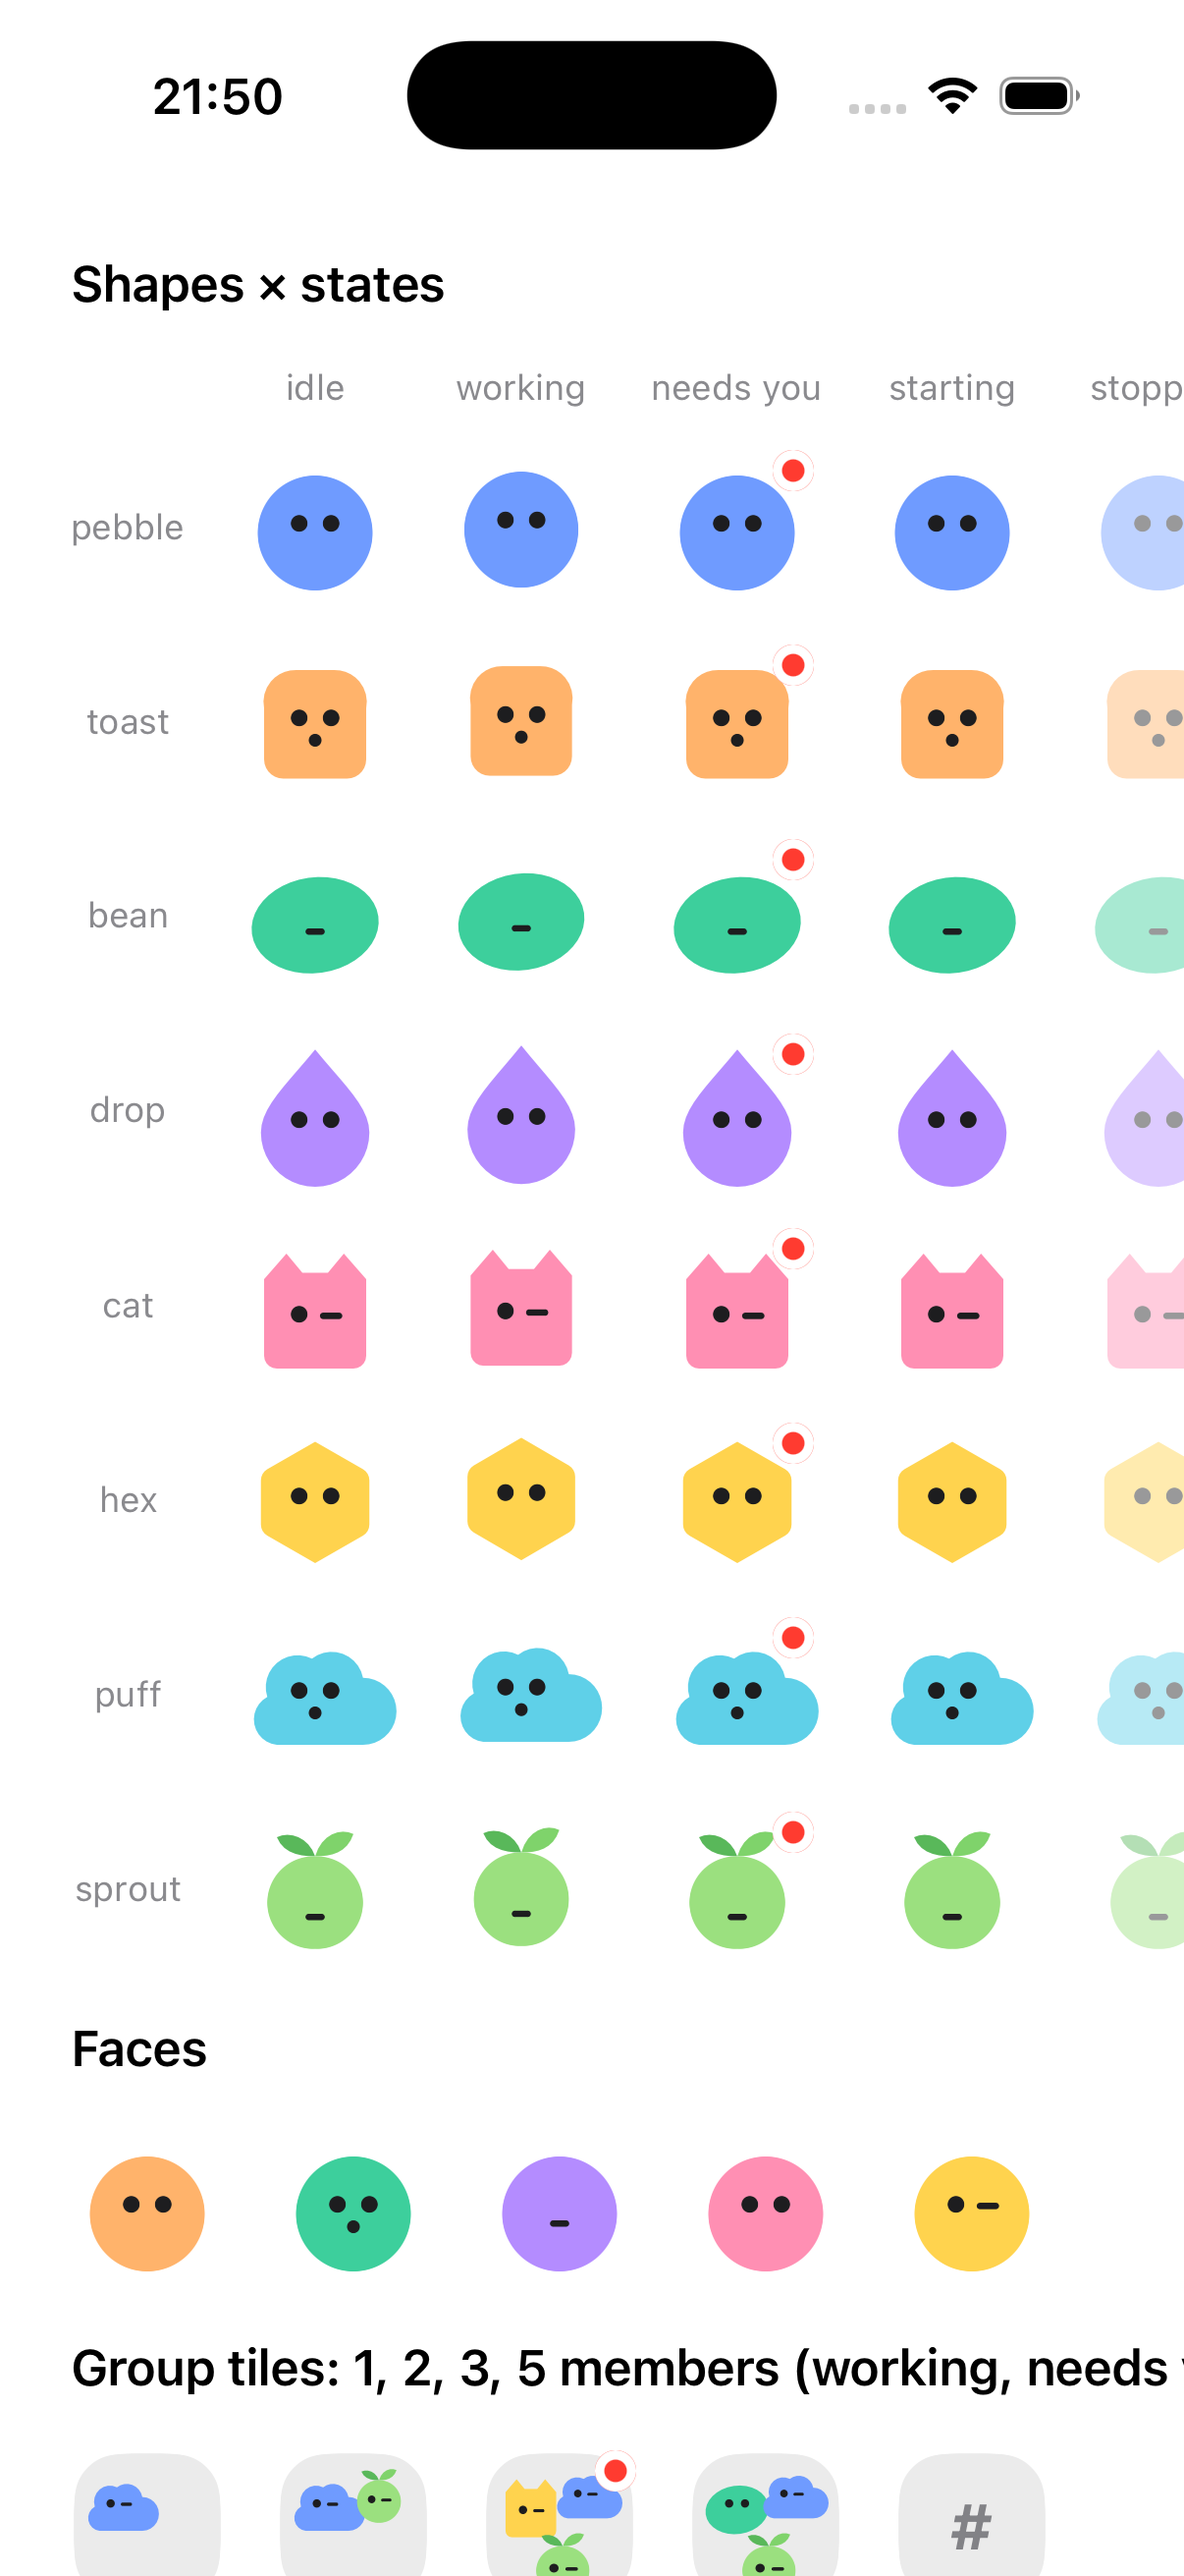
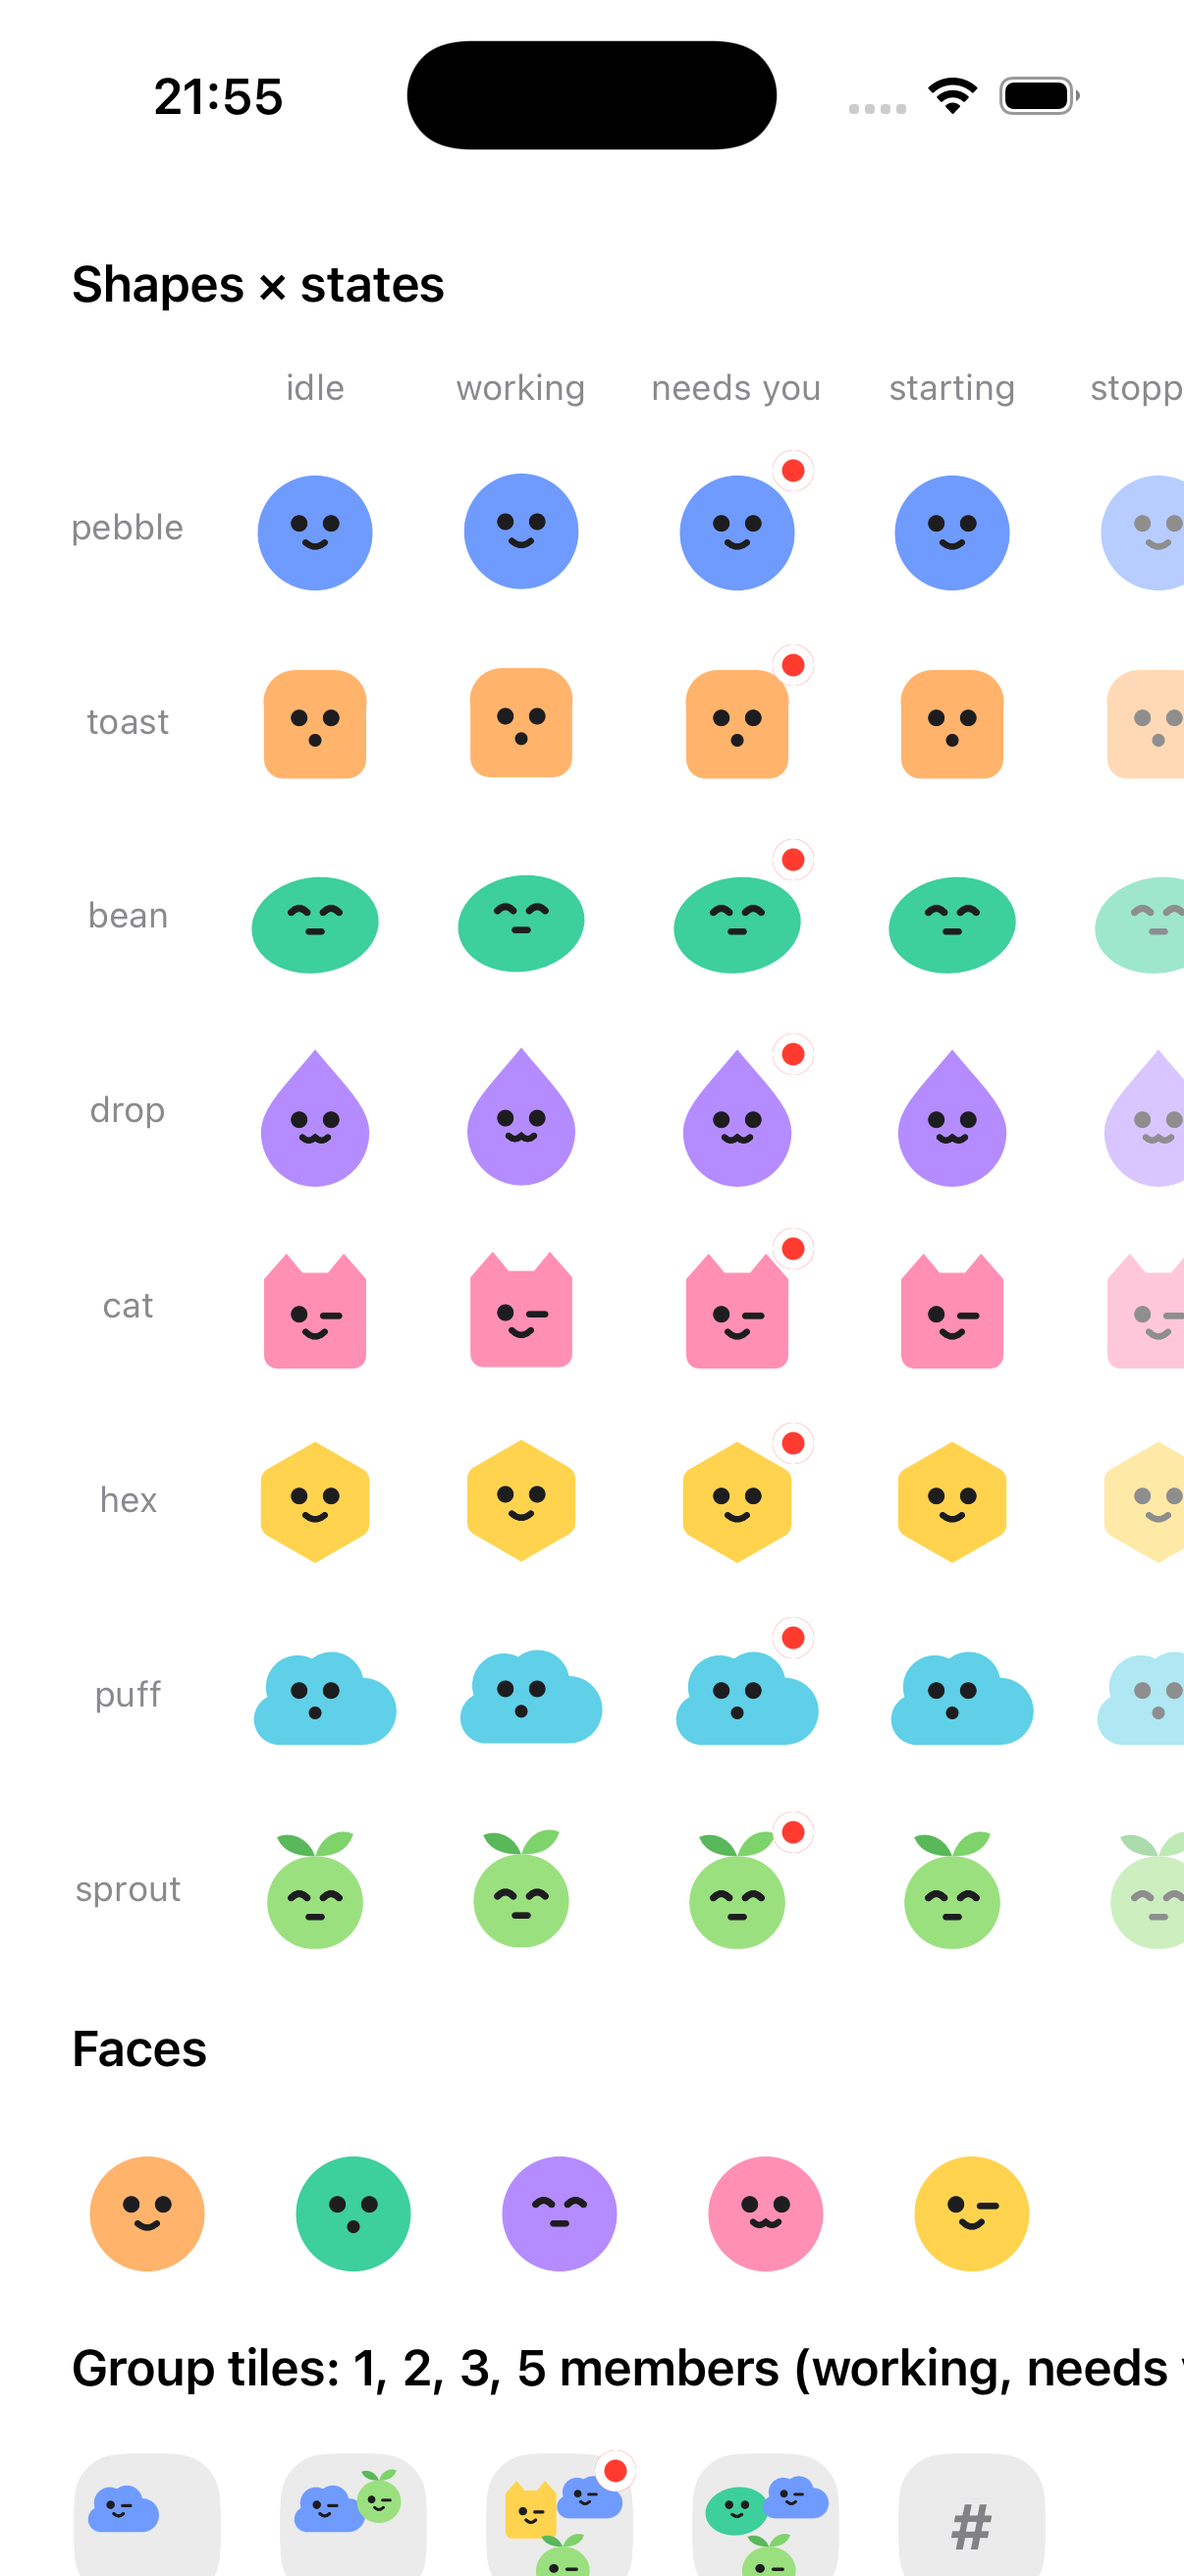
iOS: MadUI draws the faces' stroked parts (the path parser lacked q); a stopped character is at the page's 0.5

diff --git a/ios/MadUI/Sources/MadUI/SVGPath.swift b/ios/MadUI/Sources/MadUI/SVGPath.swift
@@ -1,6 +1,6 @@
 import SwiftUI
 
-/// Parses SVG path data (M L H V C A Z, absolute and relative) into a Path, so
+/// Parses SVG path data (M L H V C Q A Z, absolute and relative) into a Path, so
 /// the characters are drawn from the very strings the web page uses.
 enum SVGPath {
     static func parse(_ d: String) -> Path {
@@ -32,6 +32,10 @@ enum SVGPath {
                       let d1 = tokens.number(), let e = tokens.number(), let f = tokens.number() else { return path }
                 let p1 = pt(a, b), p2 = pt(c1, d1), p3 = pt(e, f)
                 path.addCurve(to: p3, control1: p1, control2: p2); cur = p3
+            case "Q":
+                guard let a = tokens.number(), let b = tokens.number(), let c1 = tokens.number(), let d1 = tokens.number() else { return path }
+                let p1 = pt(a, b), p2 = pt(c1, d1)
+                path.addQuadCurve(to: p2, control: p1); cur = p2
             case "A":
                 guard let rx = tokens.number(), let ry = tokens.number(), let rot = tokens.number(),
                       let large = tokens.number(), let sweep = tokens.number(),

diff --git a/ios/MadUI/Tests/MadUITests/MadUITests.swift b/ios/MadUI/Tests/MadUITests/MadUITests.swift
@@ -60,6 +60,18 @@ final class PathTests: XCTestCase {
         XCTAssertEqual(r.maxX, 20, accuracy: 0.01)
     }
 
+    func testQuadraticCurveIsDrawn() {
+        let r = tight(SVGPath.parse("M21 29 q3 2.6 6 0")) // the calm face's smile
+        XCTAssertEqual(r.width, 6, accuracy: 0.01)
+        XCTAssertEqual(r.maxY, 30.3, accuracy: 0.01)
+    }
+
+    func testEveryFaceMarkHasAShape() {
+        for (i, face) in CharacterLook.faces.enumerated() {
+            for m in face { XCTAssertFalse(m.path.isEmpty, "face \(i)") }
+        }
+    }
+
     func testLargeArcTakesTheLongWay() {
         let small = tight(SVGPath.parse("M0 0 A10 10 0 0 1 10 10"))
         XCTAssertEqual(small.minY, 0, accuracy: 0.01)

diff --git a/ios/MadUI/Sources/MadUI/CharacterView.swift b/ios/MadUI/Sources/MadUI/CharacterView.swift
@@ -35,7 +35,7 @@ public struct CharacterView: View {
         }
         .frame(width: size * (1 + 2 * Self.margin), height: size * (1 + 2 * Self.margin))
         .frame(width: size, height: size)
-        .opacity(state == .stopped ? 0.45 : 1)
+        .opacity(state == .stopped ? 0.5 : 1)
         .accessibilityElement()
         .accessibilityLabel(state.word)
         .accessibilityAddTraits(.isImage)
